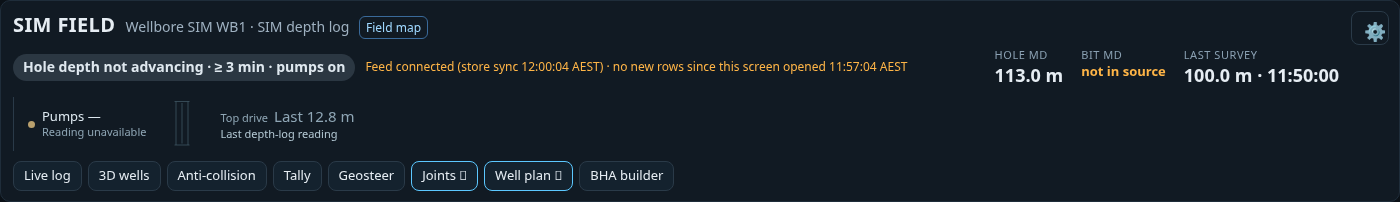
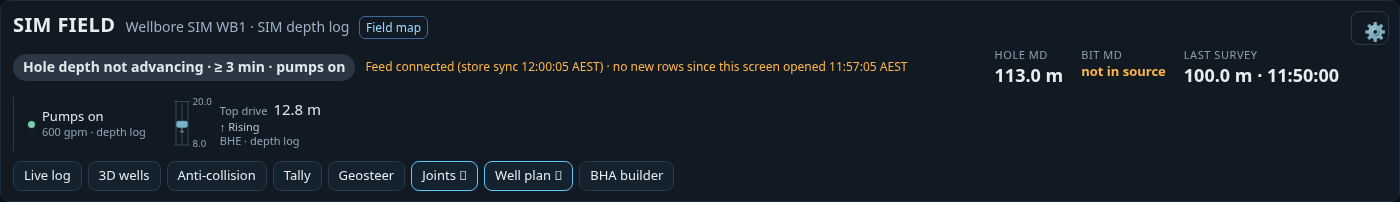
Use reported BHE and Flow, infer pump activity from SPP, refresh depth tail

diff --git a/drilling/opsnow.js b/drilling/opsnow.js
@@ -9,14 +9,14 @@ import * as A from './opsnow_ac.js?v=re1115';
 import * as WP from './opsnow_planview.js?v=re1115';
 import * as JS from './opsnow_jsurvey.js?v=re1115';
 import {createSurveyAlerts, reportSurveyStations} from './opsnow_survey_alert.mjs?v=survey1117';
-import {createPumpGraphic, pumpSample, driveChannel, driveSample} from './opsnow_pumps.mjs?v=compact1117';
+import {createPumpGraphic, pumpSample, driveChannel, driveSample, refreshDepthTail} from './opsnow_pumps.mjs?v=depth1118';
 const $ = id => document.getElementById(id);
 const PAGE = ['joints', 'wellplan'].includes(document.documentElement.dataset.page) ? document.documentElement.dataset.page : 'ops'; // joints.html / wellplan.html: same data layer, one surface each
 const DEF_WELL = new URLSearchParams(location.search).get('well') || 'DR101L';
 const NOMINAL_JOINT_M = 13; // project rule: 13 m joints. Measured length from block travel is shown alongside.
 const WINDOW_M = 150, WINDOW_MS = 3 * 3600e3, TREND_M = 60, TREND_MS = 2 * 3600e3;
 const S = {well: null, wellbores: [], headers: {}, wb: null, log: null, map: {}, data: {ml: [], ul: [], rows: []},
-  traj: null, trajUid: null, bit: null, pumpSample: null, timeLog: null, advancedAt: null, message: '', override: {wb: '', log: ''},
+  traj: null, trajUid: null, bit: null, pumpSample: null, previousDepthRow: null, timeLog: null, advancedAt: null, message: '', override: {wb: '', log: ''},
   due: {data: 0, header: 0, survey: 0, discover: 0, extra: 0}, pages: 0, started: false,
   // whole-log extras: older depth rows, MWD gamma + image logs, every wellbore's survey (read once, then kept fresh)
   backfill: 'todo', fe: null, image: null, imageRange: null, branchTrajs: null, branchMsg: '', branches: null, ac: null, tally: null, tallyName: '', tallyError: '',
@@ -60,7 +60,7 @@ async function selectWellbore(b) {
   const log = (S.override.log && logs.find(l => l.uid === S.override.log)) || C.pickPrimary(logs);
   if (!log) throw new Error('No drilling log with parameters in wellbore ' + b.name);
   S.timeLog = logs.find(l => l.time && l.curves.some(c => /^(BDE|BITDEP|DBTM|BIT_?DEPTH)/i.test(c.mn))) || null;
-  if (changed || S.log?.uid !== log.uid) { S.log = log; S.data = {ml: [], ul: [], rows: []}; S.map = {}; S.advancedAt = null; S.pumpSample = null; S.backfill = log.time ? 'n/a' : 'todo'; S.fe = S.image = null; S.branchTrajs = null; S.branches = null; await readData(true); S.trajUid = null; S.traj = null; }
+  if (changed || S.log?.uid !== log.uid) { S.log = log; S.data = {ml: [], ul: [], rows: []}; S.map = {}; S.advancedAt = null; S.pumpSample = null; S.previousDepthRow = null; S.backfill = log.time ? 'n/a' : 'todo'; S.fe = S.image = null; S.branchTrajs = null; S.branches = null; await readData(true); S.trajUid = null; S.traj = null; }
   if (!S.trajUid) await findTrajectory();
   await readSurvey();
   if (S.timeLog && S.timeLog !== S.log) await readBit();
@@ -72,7 +72,7 @@ function window0(log) {
 function fromLast(log) {
   const last = S.data.rows.at(-1)?.[0];
   if (last == null) return window0(log);
-  return log.time ? `<startDateTimeIndex>${new Date(last + 1000).toISOString()}</startDateTimeIndex>` : `<startIndex uom="${C.xa(log.indexUom || 'm')}">${(last + 0.01).toFixed(2)}</startIndex>`;
+  return log.time ? `<startDateTimeIndex>${new Date(last + 1000).toISOString()}</startDateTimeIndex>` : `<startIndex uom="${C.xa(log.indexUom || 'm')}">${(last - 0.000001).toFixed(6)}</startIndex>`;
 }
 async function readData(initial) {
   const log = S.log; let pages = 0, added = 0;
@@ -83,7 +83,8 @@ async function readData(initial) {
     const d = C.parseLogData(r.xml, log.time); pages++;
     if (!d.rows.length) break;
     if (!S.data.ml.length) S.map = C.mapChannels(d.ml, d.ul, log);
-    const n = C.appendRows(S.data, d, 60000); added += n;
+    if (!log.time) { S.previousDepthRow=S.data.rows.at(-1)?.slice() || null; refreshDepthTail(S.data, d); }
+    const n = C.appendRows(S.data, d, 60000); added += n; if(n)S.previousDepthRow=null;
     if ((r.result !== 2 && d.rows.length < 4990) || !n) break; // 2 = partial; the Adaga store also returns 1 on a full 5,000-row page
   } while (pages < 6);
   if (added && !initial) S.advancedAt = Date.now();
@@ -125,7 +126,7 @@ async function readBit() {
   const d = C.parseLogData(r.xml, true), m = C.mapChannels(d.ml, d.ul, L), lv = C.latestValues(d.rows, m);
   const dc = driveChannel({ml: d.ml, ul: d.ul, header: L, blockChannel: m.bh});
   const dh = dc ? C.latestValues(d.rows, {drive: dc}).drive : null;
-  S.pumpSample = {scope: receiptScope, logUid: L.uid, sample: pumpSample({rows: d.rows, channel: m.flowIn, latest: lv.flowIn, time: true, source: L.name}), drive: driveSample({rows: d.rows, channel: dc, latest: dh, time: true, source: L.name})};
+  S.pumpSample = {scope: receiptScope, logUid: L.uid, sample: pumpSample({rows: d.rows, channel: m.flowIn, latest: lv.flowIn, time: true, source: L.name}), pressure: pumpSample({rows:d.rows,channel:m.spp,latest:lv.spp,time:true,source:L.name}), drive: driveSample({rows: d.rows, channel: dc, latest: dh, time: true, source: L.name})};
   S.bit = lv.bd ? {v: lv.bd.v, at: lv.bd.at, log: L} : null;
 }
 // Whole depth log: page back from the log start up to the first row already held (5,000 rows per call).
@@ -414,8 +415,11 @@ function render() {
   const dc = driveChannel({ml: S.data.ml, ul: S.data.ul, header: L, blockChannel: S.map.bh});
   const dh = dc ? C.latestValues(rows, {drive: dc}).drive : null;
   const primaryDrive = driveSample({rows, channel: dc, latest: dh, time: Boolean(L?.time), source: L?.name});
+  if(primaryDrive && !L?.time && S.previousDepthRow?.[0]===rows.at(-1)?.[0]){const change=driveSample({rows:[S.previousDepthRow,rows.at(-1)],channel:dc,latest:dh,time:false,source:L?.name});primaryDrive.previousValue=change.previousValue;if(Number.isFinite(change.previousValue)){primaryDrive.min=Math.min(primaryDrive.min,change.previousValue);primaryDrive.max=Math.max(primaryDrive.max,change.previousValue);}}
   const secondaryDrive = S.pumpSample?.scope === surveyContext().scope && S.pumpSample?.logUid === S.timeLog?.uid ? S.pumpSample.drive : null;
-  pumpGraphic?.update({signed, now, sample: L?.time ? primaryFlow : secondaryFlow || primaryFlow, driveSample: L?.time ? primaryDrive : secondaryDrive || primaryDrive});
+  const primaryPressure=pumpSample({rows,channel:S.map.spp,latest:lv.spp,time:Boolean(L?.time),source:L?.name});
+  const secondaryPressure=S.pumpSample?.scope===surveyContext().scope && S.pumpSample?.logUid===S.timeLog?.uid ? S.pumpSample.pressure : null;
+  pumpGraphic?.update({signed, now, pressureSample:L?.time ? primaryPressure : primaryPressure || secondaryPressure, sample: L?.time ? primaryFlow : primaryFlow || secondaryFlow, driveSample: L?.time ? primaryDrive : primaryDrive || secondaryDrive});
   const state = !signed ? (W.state.dead ? 'Stopped' : 'Not signed in') : !L ? 'Connecting' : C.rigState({fresh, advancedAt: S.advancedAt, watchFrom: S.watchFrom, now, rpm: lv.rpm?.v, rop: lv.rop?.v, flow: lv.flowIn?.v, timeLog: L?.time});
   const chip = $('onState'); chip.textContent = state; chip.dataset.s = /^Drilling/.test(state) ? 'drill' : /No new|Stopped|Not signed/.test(state) ? 'bad' : 'idle';
   // The store re-stamps dTimLastChange about once a minute even when no row is added, so it proves the

diff --git a/drilling/ops.html b/drilling/ops.html
@@ -1,3 +1,3 @@
 <!doctype html><html lang="en-AU"><head><meta charset="utf-8"><meta name="viewport" content="width=device-width,initial-scale=1,viewport-fit=cover">
 <link rel="icon" href="data:,"><title>Drilling operations · live WITSML</title><link rel="stylesheet" href="./opsnow.css?v=dr1115"></head>
-<body><noscript>This screen needs JavaScript.</noscript><script type="module" src="./opsnow.js?v=compact1117"></script><script type="module" src="./bha-builder/context-launcher.js?v=1.0.2"></script></body></html>
+<body><noscript>This screen needs JavaScript.</noscript><script type="module" src="./opsnow.js?v=depth1118"></script><script type="module" src="./bha-builder/context-launcher.js?v=1.0.2"></script></body></html>

diff --git a/drilling-tests/PUMP-GRAPHIC.md b/drilling-tests/PUMP-GRAPHIC.md
@@ -4,8 +4,8 @@ The Ops header contains a small pump status dot/text and a narrow top-drive rail
 There is no separate equipment card, large pump drawing or continuous animation.
 The reminder remains beside the existing dashboard readings and navigation.
 
-Pumps on/off is inferred from fresh positive/zero WITSML flow in. Stale, missing,
-future, nonadvancing and depth-only readings show an unavailable state. Source
+Pumps on/off is inferred from fresh positive/zero WITSML flow in. Stale/missing time-series readings show an unavailable state; valid depth-log
+readings are shown as reported values with their source labelled. Source
 notes remain in the indicator tooltip. The existing time-log reads are reused;
 there are no additional WITSML calls, writes or credential changes.
 
@@ -23,7 +23,7 @@ or crown reference. Secondary log samples remain scoped to their well/bore/log.
 
 ## Validation and screenshots
 
-`npm test --prefix drilling-tests` passes 19 unit/installer checks. The browser
+`npm test --prefix drilling-tests` passes 22 unit/installer checks. The browser
 suite runs the actual Ops renderer and parsers with local SIM transport at
 1920×1080 and 390×844. It checks pump states, header placement and compact height,
 carriage movement, Rising/Lowering/Holding, direct-channel preference, secondary
@@ -40,8 +40,18 @@ PLAYWRIGHT_MODULE=/path/to/playwright/index.mjs node drilling-tests/survey-alert
 ## Release
 
 The full verified release archive must include `opsnow.js`, `opsnow_pumps.mjs`
-and `opsnow_pumps.css`, with the Ops script URL set to `?v=compact1117`. Keep the
+and `opsnow_pumps.css`, with the Ops script URL set to `?v=depth1118`. Keep the
 BHA launcher, survey notification assets and other workspace files. Follow the
 existing HANDOFF.md inventory, unpublished-preview and rollback process before
 publication. Rollback restores the previous Ops module and entry URL. There is
 no migration, billing or account change.
+
+## Depth-indexed live feed correction
+
+BHE, Flow and SPP from the active depth log are now displayed as reported readings,
+explicitly labelled `depth log`. Negative BHE values are retained. The poll includes
+the latest depth row and refreshes its values when they change at unchanged MD,
+without marking the hole as advancing. Missing flow falls back to a clearly
+labelled SPP inference (`Pumps likely on/off`). No numeric flow is invented from
+pressure; that requires a calibrated hydraulic relationship and residual/trapped
+pressure remains possible. Direct flow always takes precedence, including zero.
